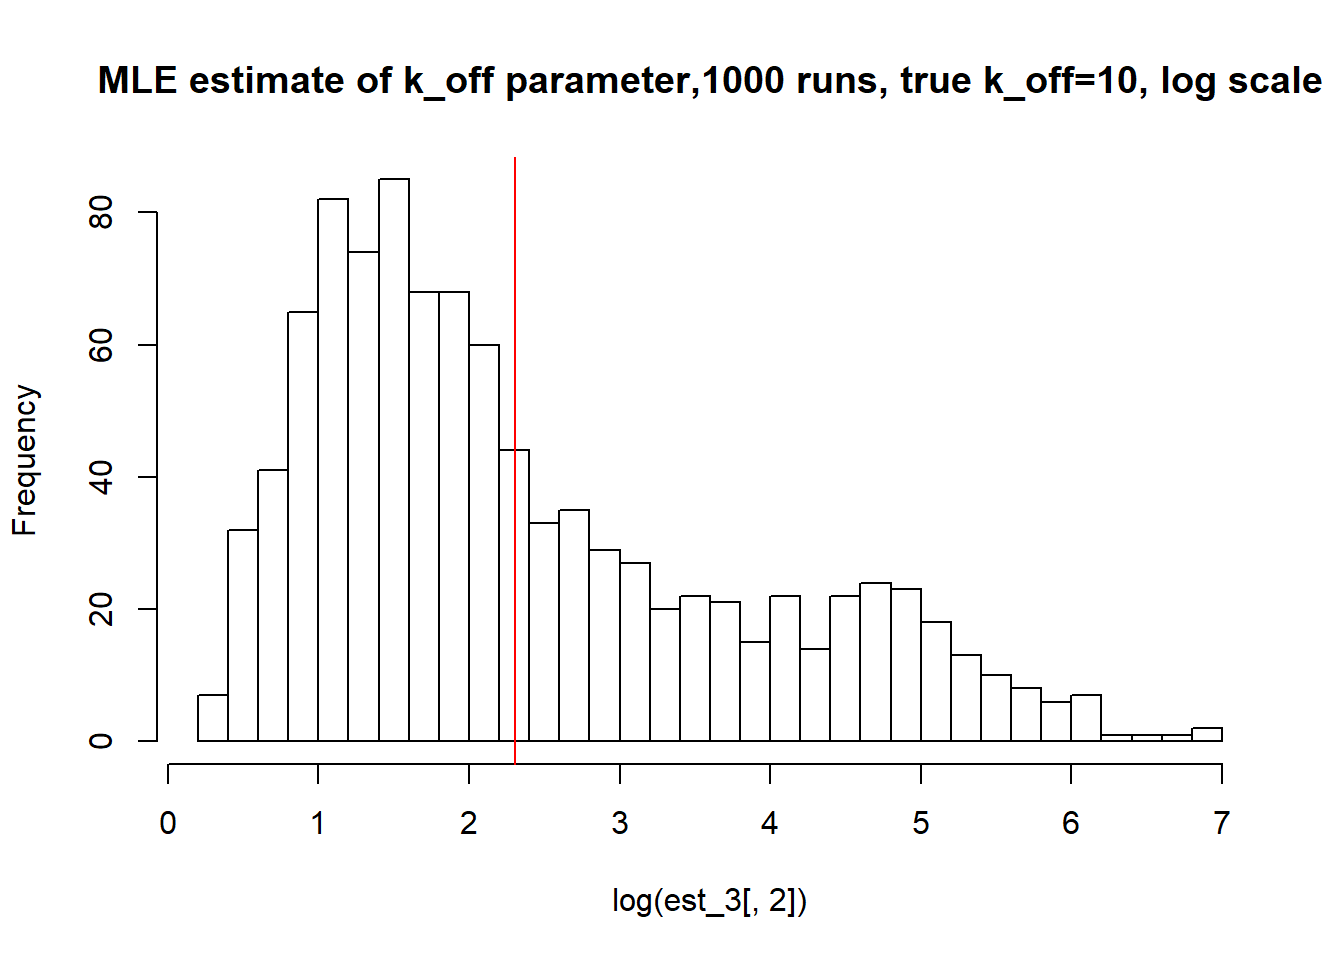
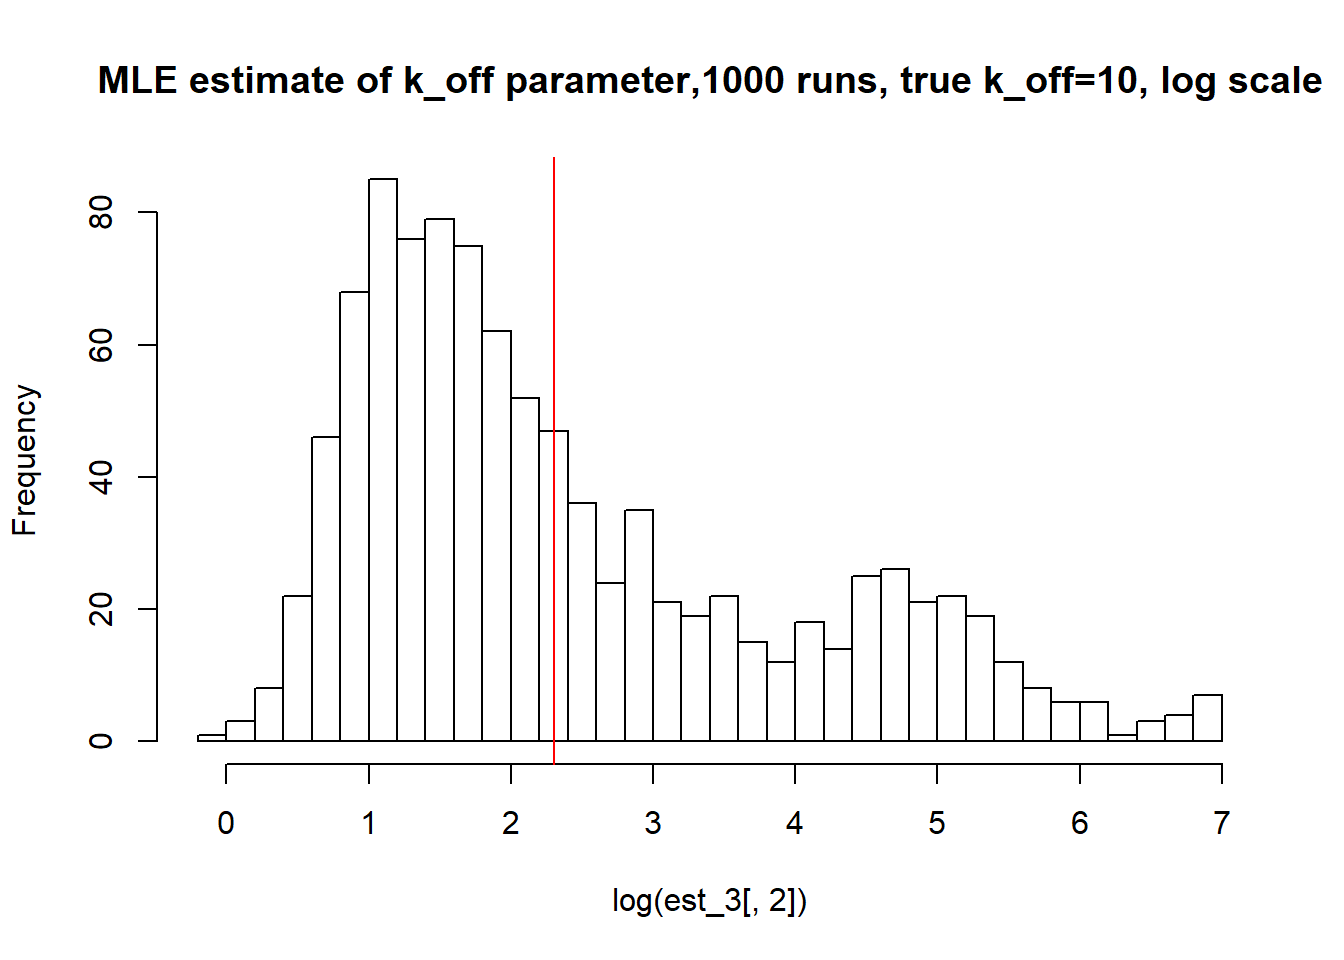
Build site.

diff --git a/docs/MLE_estimates.html b/docs/MLE_estimates.html
@@ -347,7 +347,7 @@ div.section {
 <strong>Last updated:</strong> 2019-12-04
 </p>
 <p>
-<strong>Checks:</strong> <span class="glyphicon glyphicon-ok text-success" aria-hidden="true"></span> 5 <span class="glyphicon glyphicon-exclamation-sign text-danger" aria-hidden="true"></span> 2
+<strong>Checks:</strong> <span class="glyphicon glyphicon-ok text-success" aria-hidden="true"></span> 6 <span class="glyphicon glyphicon-exclamation-sign text-danger" aria-hidden="true"></span> 1
 </p>
 <p>
 <strong>Knit directory:</strong> <code>Thesis_single_RNA/</code> <span class="glyphicon glyphicon-question-sign" aria-hidden="true" title="This is the local directory in which the code in this file was executed."> </span>
@@ -363,12 +363,12 @@ This reproducible <a href="http://rmarkdown.rstudio.com">R Markdown</a> analysis
 <div class="panel panel-default">
 <div class="panel-heading">
 <p class="panel-title">
-<a data-toggle="collapse" data-parent="#workflowr-checks" href="#strongRMarkdownfilestronguncommittedchanges"> <span class="glyphicon glyphicon-exclamation-sign text-danger" aria-hidden="true"></span> <strong>R Markdown file:</strong> uncommitted changes </a>
+<a data-toggle="collapse" data-parent="#workflowr-checks" href="#strongRMarkdownfilestronguptodate"> <span class="glyphicon glyphicon-ok text-success" aria-hidden="true"></span> <strong>R Markdown file:</strong> up-to-date </a>
 </p>
 </div>
-<div id="strongRMarkdownfilestronguncommittedchanges" class="panel-collapse collapse">
+<div id="strongRMarkdownfilestronguptodate" class="panel-collapse collapse">
 <div class="panel-body">
-<p>The R Markdown file has unstaged changes. To know which version of the R Markdown file created these results, you’ll want to first commit it to the Git repo. If you’re still working on the analysis, you can ignore this warning. When you’re finished, you can run <code>wflow_publish</code> to commit the R Markdown file and build the HTML.</p>
+<p>Great! Since the R Markdown file has been committed to the Git repository, you know the exact version of the code that produced these results.</p>
 </div>
 </div>
 </div>
@@ -459,10 +459,10 @@ analysis/MLE.py
 <div class="panel panel-default">
 <div class="panel-heading">
 <p class="panel-title">
-<a data-toggle="collapse" data-parent="#workflowr-checks" href="#strongRepositoryversionstrongahrefhttpsgithubcomMargareth2407ThesissingleRNAtree14ac307543ffeeb40935c30536fb0ae99ddae430targetblank14ac307a"> <span class="glyphicon glyphicon-ok text-success" aria-hidden="true"></span> <strong>Repository version:</strong> <a href="https://github.com/Margareth2407/Thesis_single_RNA/tree/14ac307543ffeeb40935c30536fb0ae99ddae430" target="_blank">14ac307</a> </a>
+<a data-toggle="collapse" data-parent="#workflowr-checks" href="#strongRepositoryversionstrongahrefhttpsgithubcomMargareth2407ThesissingleRNAtree50e6ca62b194f49249bf898b44c21bb0406c2a0atargetblank50e6ca6a"> <span class="glyphicon glyphicon-ok text-success" aria-hidden="true"></span> <strong>Repository version:</strong> <a href="https://github.com/Margareth2407/Thesis_single_RNA/tree/50e6ca62b194f49249bf898b44c21bb0406c2a0a" target="_blank">50e6ca6</a> </a>
 </p>
 </div>
[2 lines of base64/hex data omitted]
 <div class="panel-body">
 <p>
 Great! You are using Git for version control. Tracking code development and connecting the code version to the results is critical for reproducibility. The version displayed above was the version of the Git repository at the time these results were generated. <br><br> Note that you need to be careful to ensure that all relevant files for the analysis have been committed to Git prior to generating the results (you can use <code>wflow_publish</code> or <code>wflow_git_commit</code>). workflowr only checks the R Markdown file, but you know if there are other scripts or data files that it depends on. Below is the status of the Git repository when the results were generated:
@@ -474,12 +474,6 @@ Ignored files:
     Ignored:    .Rproj.user/
     Ignored:    analysis/.RData
     Ignored:    analysis/.Rhistory
-
-Unstaged changes:
-    Modified:   Data_sim.Rmd
-    Modified:   analysis/Data_sim.Rmd
-    Modified:   analysis/MLE.py
-    Modified:   analysis/MLE_estimates.Rmd
 
 </code></pre>
 <p>
@@ -508,33 +502,33 @@ There are no past versions. Publish this analysis with <code>wflow_publish()</co
 <h2>I) Small <span class="math inline">\(k_{on}\)</span> and <span class="math inline">\(k_{off}\)</span> case:</h2>
 <pre><code>Warning: package &#39;robustbase&#39; was built under R version 3.5.1</code></pre>
 <p><img src="figure/MLE_estimates.Rmd/unnamed-chunk-2-1.png" width="672" style="display: block; margin: auto;" /><img src="figure/MLE_estimates.Rmd/unnamed-chunk-2-2.png" width="672" style="display: block; margin: auto;" /><img src="figure/MLE_estimates.Rmd/unnamed-chunk-2-3.png" width="672" style="display: block; margin: auto;" /></p>
-<pre><code>[1] &quot;true k_on is 0.1; k_on mean 0.101 k_on median 0.1&quot;</code></pre>
-<pre><code>[1] &quot;true k_off is 0.1; k_off mean 0.101 k_off median 0.099&quot;</code></pre>
-<pre><code>[1] &quot;true k_r is 100; k_r mean 99.983 k_r median 99.93&quot;</code></pre>
+<pre><code>[1] &quot;true k_on is 0.1; k_on mean 0.101 k_on median 0.099&quot;</code></pre>
+<pre><code>[1] &quot;true k_off is 0.1; k_off mean 0.102 k_off median 0.1&quot;</code></pre>
+<pre><code>[1] &quot;true k_r is 100; k_r mean 99.984 k_r median 99.968&quot;</code></pre>
 <p>Small <span class="math inline">\(k_{on}\)</span> and <span class="math inline">\(k_{off}\)</span> leads to bimodal distribution. As we see from histograms, mean and median MLE estimates are centered around true value.</p>
 </div>
 <div id="ii-large-k_on-and-k_off-case" class="section level2">
 <h2>II) Large <span class="math inline">\(k_{on}\)</span> and <span class="math inline">\(k_{off}\)</span> case:</h2>
 <p><img src="figure/MLE_estimates.Rmd/unnamed-chunk-3-1.png" width="672" style="display: block; margin: auto;" /><img src="figure/MLE_estimates.Rmd/unnamed-chunk-3-2.png" width="672" style="display: block; margin: auto;" /><img src="figure/MLE_estimates.Rmd/unnamed-chunk-3-3.png" width="672" style="display: block; margin: auto;" /></p>
-<pre><code>[1] &quot;true k_on is 10; k_on mean 11.422 k_on median 9.814&quot;</code></pre>
-<pre><code>[1] &quot;true k_off is 10; k_off mean 58.215 k_off median 8.882&quot;</code></pre>
-<pre><code>[1] &quot;true k_r is 100; k_r mean 212.085 k_r median 97.247&quot;</code></pre>
+<pre><code>[1] &quot;true k_on is 10; k_on mean 11.541 k_on median 9.958&quot;</code></pre>
+<pre><code>[1] &quot;true k_off is 10; k_off mean 65.384 k_off median 9.493&quot;</code></pre>
+<pre><code>[1] &quot;true k_r is 100; k_r mean 234.295 k_r median 99.06&quot;</code></pre>
 <p>Large <span class="math inline">\(k_{on}\)</span> and <span class="math inline">\(k_{off}\)</span> case lead to Poisson or negative binomial distribution and as we can see parameters are not identifiable.</p>
 </div>
 <div id="iii-large-value-if-k_off-and-small-k_on-case" class="section level2">
 <h2>III) Large value if <span class="math inline">\(k_{off}\)</span> and small <span class="math inline">\(k_{on}\)</span> case:</h2>
 <p><img src="figure/MLE_estimates.Rmd/unnamed-chunk-4-1.png" width="672" style="display: block; margin: auto;" /><img src="figure/MLE_estimates.Rmd/unnamed-chunk-4-2.png" width="672" style="display: block; margin: auto;" /><img src="figure/MLE_estimates.Rmd/unnamed-chunk-4-3.png" width="672" style="display: block; margin: auto;" /></p>
-<pre><code>[1] &quot;true k_on is 1; k_on mean 0.989 k_on median 0.975&quot;</code></pre>
-<pre><code>[1] &quot;true k_off is 10; k_off mean 37.821 k_off median 6.892&quot;</code></pre>
-<pre><code>[1] &quot;true k_r is 100; k_r mean 303.637 k_r median 72.806&quot;</code></pre>
+<pre><code>[1] &quot;true k_on is 1; k_on mean 0.98 k_on median 0.964&quot;</code></pre>
+<pre><code>[1] &quot;true k_off is 10; k_off mean 47.641 k_off median 6.911&quot;</code></pre>
+<pre><code>[1] &quot;true k_r is 100; k_r mean 388.681 k_r median 72.873&quot;</code></pre>
 <p>k_on parameter being estimated correctly, while k_off and k_r are non-identifiable.</p>
 </div>
 <div id="iv-small-value-if-k_off-and-big-k_on" class="section level2">
 <h2>IV) Small value if <span class="math inline">\(k_{off}\)</span> and big <span class="math inline">\(k_{on}\)</span></h2>
 <p><img src="figure/MLE_estimates.Rmd/unnamed-chunk-5-1.png" width="672" style="display: block; margin: auto;" /><img src="figure/MLE_estimates.Rmd/unnamed-chunk-5-2.png" width="672" style="display: block; margin: auto;" /><img src="figure/MLE_estimates.Rmd/unnamed-chunk-5-3.png" width="672" style="display: block; margin: auto;" /></p>
-<pre><code>[1] &quot;true k_on is 10; k_on mean 14.626 k_on median 10.417&quot;</code></pre>
-<pre><code>[1] &quot;true k_off is 1; k_off mean 7.56 k_off median 1.23&quot;</code></pre>
-<pre><code>[1] &quot;true k_r is 100; k_r mean 103.485 k_r median 100.427&quot;</code></pre>
+<pre><code>[1] &quot;true k_on is 10; k_on mean 14.547 k_on median 10.234&quot;</code></pre>
+<pre><code>[1] &quot;true k_off is 1; k_off mean 8.14 k_off median 1.217&quot;</code></pre>
+<pre><code>[1] &quot;true k_r is 100; k_r mean 101.79 k_r median 100.177&quot;</code></pre>
 <p>Ref. <a href="https://www.nature.com/articles/s41586-018-0836-1" class="uri">https://www.nature.com/articles/s41586-018-0836-1</a></p>
 <br>
 <p>
@@ -568,7 +562,7 @@ loaded via a namespace (and not attached):
  [5] lattice_0.20-38 R6_2.3.0        stringr_1.3.1   highr_0.7      
  [9] tools_3.5.0     grid_3.5.0      git2r_0.26.1    htmltools_0.3.6
 [13] yaml_2.2.0      rprojroot_1.3-2 digest_0.6.17   Matrix_1.2-14  
-[17] later_0.8.0     promises_1.0.1  fs_1.3.1        glue_1.3.0     
+[17] later_0.8.0     fs_1.3.1        promises_1.0.1  glue_1.3.0     
 [21] evaluate_0.11   rmarkdown_1.10  stringi_1.1.7   DEoptimR_1.0-8 
 [25] compiler_3.5.0  backports_1.1.2 jsonlite_1.5    httpuv_1.5.1   </code></pre>
 </div>
